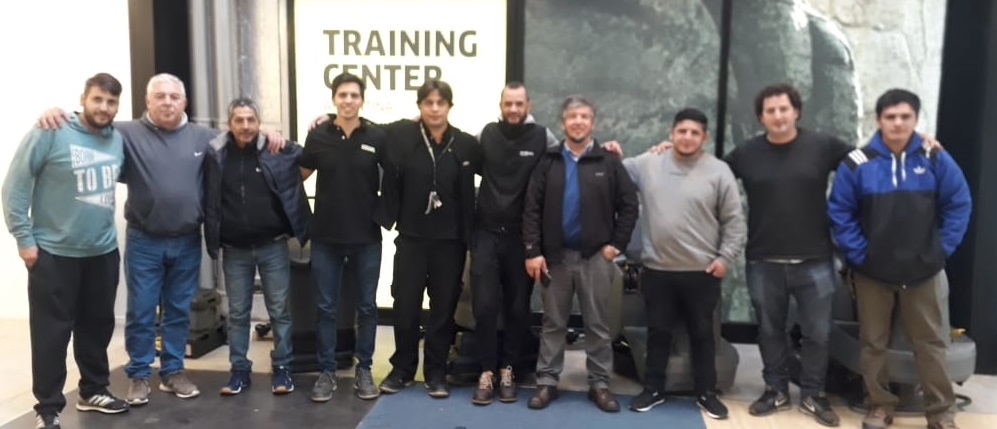
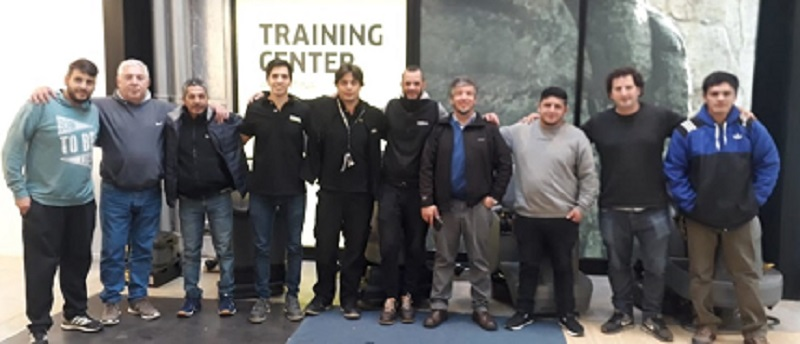
Cambio de imagen y responsive

diff --git a/Views/Seminario.html b/Views/Seminario.html
@@ -66,25 +66,25 @@
                 <div class="row">
                     <div class="col-md-6 img__center ">
                         <h4>Curso básico de electricidad</h4>
-                        <iframe width="500" height="400" src="https://www.youtube.com/embed/nf1sFffWQqQ" frameborder="0" allow="accelerometer; autoplay; clipboard-write; encrypted-media; gyroscope; picture-in-picture" allowfullscreen></iframe>
+                        <iframe width="450rem" height="350rem" src="https://www.youtube.com/embed/nf1sFffWQqQ" frameborder="0" allow="accelerometer; autoplay; clipboard-write; encrypted-media; gyroscope; picture-in-picture" allowfullscreen></iframe>
 
                     </div>
                     <div class="col-md-6 img__center">
                         <h4>Curso básico de electricidad HDS </h4>
-                        <iframe width="500" height="400" src="https://www.youtube.com/embed/RRxOylwWthw" frameborder="0" allow="accelerometer; autoplay; clipboard-write; encrypted-media; gyroscope; picture-in-picture" allowfullscreen></iframe>
+                        <iframe width="450rem" height="350rem" src="https://www.youtube.com/embed/RRxOylwWthw" frameborder="0" allow="accelerometer; autoplay; clipboard-write; encrypted-media; gyroscope; picture-in-picture" allowfullscreen></iframe>
                     </div>
                     <div class="col-md-6 img__center">
                         <h4>Curso básico motores eléctricos </h4>
-                        <iframe width="500" height="400" src="https://www.youtube.com/embed/Ta0GuXTOAf4" frameborder="0" allow="accelerometer; autoplay; clipboard-write; encrypted-media; gyroscope; picture-in-picture" allowfullscreen></iframe>
+                        <iframe width="450rem" height="350rem" src="https://www.youtube.com/embed/Ta0GuXTOAf4" frameborder="0" allow="accelerometer; autoplay; clipboard-write; encrypted-media; gyroscope; picture-in-picture" allowfullscreen></iframe>
 
                     </div>
                     <div class="col-md-6 img__center">
                         <h4>Curso mantenimiento motores de combustión </h4>
-                        <iframe width="500" height="400" src="https://www.youtube.com/embed/we1nLTcjz9o" frameborder="0" allow="accelerometer; autoplay; clipboard-write; encrypted-media; gyroscope; picture-in-picture" allowfullscreen></iframe>
+                        <iframe width="450rem" height="350rem" src="https://www.youtube.com/embed/we1nLTcjz9o" frameborder="0" allow="accelerometer; autoplay; clipboard-write; encrypted-media; gyroscope; picture-in-picture" allowfullscreen></iframe>
                     </div>
                     <div class="col-md-6 img__center">
                         <h4>Curso básico baterías de tracción</h4>
-                        <iframe width="500" height="400" src="https://www.youtube.com/embed/zi0voC6WveE" frameborder="0" allow="accelerometer; autoplay; clipboard-write; encrypted-media; gyroscope; picture-in-picture" allowfullscreen></iframe>
+                        <iframe width="450rem" height="350rem" src="https://www.youtube.com/embed/zi0voC6WveE" frameborder="0" allow="accelerometer; autoplay; clipboard-write; encrypted-media; gyroscope; picture-in-picture" allowfullscreen></iframe>
                     </div>
                 </div>
             </div>

diff --git a/index.html b/index.html
@@ -5,7 +5,7 @@
     <meta charset="UTF-8">
     <meta name="viewport" content="width=device-width, initial-scale=1.0">
     <meta name="description=" content="Encuentra toda la información relacionada al desarrollo, programación de las  actividades de capacitación en Karcher argentina">
-    <meta name="keywords" property="keywords" content="capacitación técnica, centro de capacitación, cursos en línea">
+    <meta name="keywords" property="keywords" content="capacitación técnica, centro de capacitación, cursos en línea, karcher">
     <title>Centro de capacitación técnica Kärcher Argentina. </title>
     <link rel="stylesheet" href="https://cdn.jsdelivr.net/npm/bootstrap@4.5.3/dist/css/bootstrap.min.css" integrity="sha384-TX8t27EcRE3e/ihU7zmQxVncDAy5uIKz4rEkgIXeMed4M0jlfIDPvg6uqKI2xXr2" crossorigin="anonymous">
     <link rel="stylesheet" href="./css/estilo.css">
@@ -69,24 +69,24 @@
         <div class="container">
             <div class="row">
 
-                <div class="card col-md-3.5" style="width: 18rem;">
-                    <img src="./Galeria/Entrenamientos_en_VIVO.jpg" class="card-img-top" alt="EntrenamientoVivo" height="300rem">
+                <div class="card col-md-3.8" style="width: 18.5rem;">
+                    <img src="./Galeria/Entrenamientos_en_VIVO.jpg" class="card-img-top" alt="EntrenamientoVivo">
                     <div class="card-body">
                         <h5 class="card-title">Entrenamientos en vivo.</h5>
                         <a href="./Views/Calendario.html" class="btn btn-primary">Calendario de formación</a>
                     </div>
                 </div>
 
-                <div class="card col-md-3.5" style="width: 18rem;">
-                    <img src="./Galeria/webinar.jpg" class="card-img-top" alt="webinarFoto" height="300rem">
+                <div class="card col-md-3.8" style="width: 18.5rem;">
+                    <img src="./Galeria/webinar.jpg" class="card-img-top" alt="webinarFoto">
                     <div class="card-body">
                         <h5 class="card-title">Aprender desde casa.</h5>
                         <a href="./Views/Seminario.html" class="btn btn-primary">Ver seminarios Web.</a>
                     </div>
                 </div>
 
-                <div class="card col-md-3.5" style="width: 18rem;">
-                    <img src="./Galeria/grupo.jpg" class="card-img-top" alt="grupoFoto" height="300rem">
+                <div class="card col-md-3.8" style="width: 18.5rem;">
+                    <img src="./Galeria/2.jpg" class="card-img-top" alt="grupoFoto">
                     <div class="card-body">
                         <h5 class="card-title">Galería de comunidad.</h5>
                         <a href="./Views/Galeria.html" class="btn btn-primary">Revive tu experiencia.</a>

diff --git a/Views/Calendario.html b/Views/Calendario.html
@@ -80,13 +80,13 @@
                 <tr>
                     <td>27/02/2020</td>
                     <td>8 horas</td>
-                    <td id="table__p--align">Capacitaciòn lavadoras de alta presión</td>
+                    <td id="table__p--align">Capacitación lavadoras de alta presión</td>
                     <td>A1</td>
                 </tr>
                 <tr>
                     <td>28/02/2020</td>
                     <td>8 horas</td>
-                    <td id="table__p--align">Capacitación limpiadores de vapor y Aspiradoras</td>
+                    <td id="table__p--align">Capacitación limpiadores de vapor y aspiradoras</td>
                     <td>A2</td>
                 </tr>
                 <tr>
@@ -104,19 +104,19 @@
                 <tr>
                     <td>14/05/2020</td>
                     <td>16 horas</td>
-                    <td id="table__p--align">Capacitación Barredoras</td>
+                    <td id="table__p--align">Capacitación barredoras</td>
                     <td>C2</td>
                 </tr>
                 <tr>
                     <td>09/06/2020</td>
                     <td>8 horas</td>
-                    <td id="table__p--align">Capacitaciòn lavadoras de alta presión</td>
+                    <td id="table__p--align">Capacitación lavadoras de alta presión</td>
                     <td>A1</td>
                 </tr>
                 <tr>
                     <td>10/06/2020</td>
                     <td>8 horas</td>
-                    <td id="table__p--align">Capacitación limpiadores de vapor y Aspiradoras</td>
+                    <td id="table__p--align">Capacitación limpiadores de vapor y aspiradoras</td>
                     <td>A2</td>
                 </tr>
                 <tr>

diff --git a/Views/Contactos.html b/Views/Contactos.html
@@ -71,7 +71,7 @@
                 <p class="col-md-12">Webinars en vivo / Webinars grabados</p><br>
                 <p class="col-md-12">Entrenamientos presenciales</p><br>
                 <p class="col-md-12">Cómo inscribirse</p><br>
-                <img src="../Galeria/contacto.jpg" alt="imagenContacto" height="200" width="100" class="img__center col-md-4">
+                <img src="../Galeria/contacto.jpg" alt="imagenContacto" height="300rem" width="150rem" class="img__center col-md-4">
 
             </div>
         </div>
@@ -106,7 +106,7 @@
                         </div>
                         <div>
                             <label for="Comentario">Temas de formación o preguntas sobre necesidades de formación</label><br>
-                            <textarea name="" id="Comentario" cols="50" rows="10"></textarea><br>
+                            <textarea name="" id="Comentario" cols="35" rows="5"></textarea><br>
                         </div>
 
                     </fieldset>

diff --git a/Views/Cursos.html b/Views/Cursos.html
@@ -62,7 +62,7 @@
         <div class="container">
             <div class="row">
 
-                <div class="card mb-3 col-md-4" style="max-width: 600px;">
+                <div class="card mb-5 col-md-8" style="width: 400rem;">
                     <div class="row no-gutters">
                         <div class="col-md-4">
                             <img src="../Galeria/VIVO.png" class="card-img" alt="imagenEntrenamiento">
@@ -78,7 +78,7 @@
                         </div>
                     </div>
                 </div>
-                <div class="card mb-3 col-md-4" style="max-width: 600px;">
+                <div class="card mb-3 col-md-8" style="width: 400rem;">
                     <div class="row no-gutters">
                         <div class="col-md-4">
                             <img src="../Galeria/cursoOnline.jpg" class="card-img" alt="imagenEntrenamiento">

diff --git a/Views/Documentos.html b/Views/Documentos.html
@@ -98,7 +98,7 @@
                     <li>
                         <h3>Curso Limpiadores de alta presión</h3>
                     </li>
-                    <img src="../galeria/hds.jpg" alt="hidroLavadora" height="250" width="250" class="img__center">
+                    <img src="../Galeria/hds.jpg" alt="hidroLavadora" height="250" width="250" class="img__center">
                     <ul class="a__download">
 
                         <a href="../webinar_pdf/Webinar Hidrolavadoras Home and garden.pdf">
